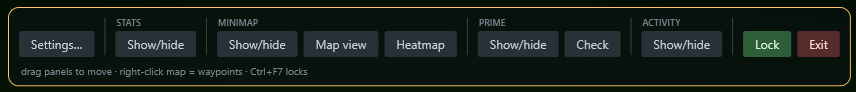
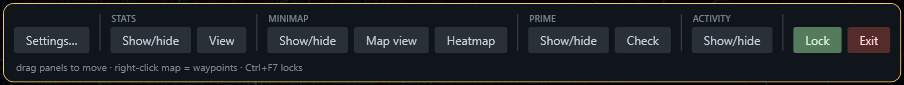
README: FAQ section, current for 1.27 and the waypoint packs
Adds a FAQ (can't see the overlay, closing it, the numbers, safety, installing and updating) linked from the Contents, moves Troubleshooting next to it, and brings the rest up to date: the intro, the fade now covering the Activity feed, the Prime tracker's default spot, the fair-play note, a stray sentence in the fade bullet. The control panel shot now shows the View button and a Combat view shot is added.

diff --git a/README.md b/README.md
@@ -1,8 +1,8 @@
 # Pandora Overlay
 
-A tiny always-on-top overlay for The Isle: Evrima showing your dino's health, stamina, hunger, thirst, growth, and fracture status while playing on Isla Pandora — plus a minimap with your live position and heading.
+A small always-on-top overlay for The Isle: Evrima on the Isla Pandora server. While you play it shows your dino's health, stamina, hunger, thirst, growth and fractures, a minimap with your live position, your waypoints and your friends, your Prime status, a feed of what just happened, and the server rules.
 
-It is **fully external**: the only thing it ever does is replay the same authenticated HTTPS request the islapandora.eu live-map page makes in your browser (`POST /api/map/mylocation`). It never reads game memory, never touches game files, and never interacts with the game process in any way.
+It is **fully external**: all it knows about the game comes from the same logged-in HTTPS requests the islapandora.eu website makes in your browser when you look at its live map. It never reads game memory, never touches game files, and never interacts with the game process in any way.
 
 [![Build](https://github.com/DavidKatona/PandoraOverlay/actions/workflows/release.yml/badge.svg)](https://github.com/DavidKatona/PandoraOverlay/actions)
 [![Latest release](https://img.shields.io/github/v/release/DavidKatona/PandoraOverlay)](https://github.com/DavidKatona/PandoraOverlay/releases/latest)
@@ -19,7 +19,8 @@ It is **fully external**: the only thing it ever does is replay the same authent
   - [Tray icon & settings](#tray-icon--settings)
   - Widgets: [Stats panel](#stats-panel) · [Minimap](#minimap) · [Prime tracker](#prime-tracker) · [Activity feed](#activity-feed)
   - Features: [Waypoints](#waypoints) · [Friends](#friends) · [Server rules](#server-rules)
-- **Reference:** [Configuration (config.json)](#configuration-configjson) · [Troubleshooting](#troubleshooting) · [Fair-play notes](#fair-play-notes) · [Roadmap](#roadmap) · [License](#license)
+- **Help:** [FAQ](#faq) — can't see the overlay, how to close it, updating, and more · [Troubleshooting](#troubleshooting)
+- **Reference:** [Configuration (config.json)](#configuration-configjson) · [Fair-play notes](#fair-play-notes) · [Roadmap](#roadmap) · [License](#license)
 
 ## Get it
 
@@ -30,6 +31,7 @@ Windows will likely warn about an **unknown publisher** the first time you run a
 ## Requirements
 
 - Windows 10/11, x64
+- The [.NET 8 Desktop Runtime](https://dotnet.microsoft.com/download/dotnet/8.0) to run a release
 - .NET 8 SDK (`winget install Microsoft.DotNet.SDK.8`) — only needed when building from source
 - An Isla Pandora account, logged in via Discord on islapandora.eu
 - The Isle running in **borderless windowed** mode (overlays cannot draw over exclusive fullscreen)
@@ -94,11 +96,14 @@ The pasted cookie is encrypted with **Windows DPAPI** (scoped to your Windows us
 - The health, hunger and thirst bars **pulse** when they drop below 25% (stamina doesn't — it drains by design every sprint). The three **fracture badges** (HEAD, BODY, LEGS) are always on the panel, dim until that part is actually fractured.
 - Every widget is one of **two sizes**: the minimap and the Prime tracker share one, the stats panel and the Activity feed the other, all the same width, and nothing on them can change their size while you play. That is what keeps docked layouts docked.
 - After about five minutes of play, the growth readout gains an **estimated time to full growth** ("Growth 41.6% · ~3h 10m"), measured from your current growth speed — it's in-game time, and it adapts to server growth events and buffs. If growth stalls while you're spawned, the readout turns amber and shows "paused".
-- The hunger and thirst bars show an **estimated time left** ("~40m") at the tip of the bar's fill once a stat has under about an hour to go, measured from how fast it is draining right now; it's back right after you eat or drink. It needs about three minutes of play first.
+- The hunger and thirst bars show an **estimated time left** ("~40m") at the tip of the bar's fill once a stat has under about an hour to go, measured from how fast it is draining right now; it's back right after you eat or drink. It needs about three minutes of play first. Don't want it? Untick "Show time left on the hunger, thirst and stamina bars" in Settings → Stats panel.
 - The stamina bar has a **timer** of its own, and it reads both ways: while stamina is draining (a sprint, a swim) it shows how long until it's empty ("~25s"), and while it's recovering it shows how long until it's full ("full ~40s"). It appears about six seconds into a steady run of either and disappears the moment stamina holds still, so it's never a stale number. The same Settings checkbox as the hunger and thirst labels turns it off.
 - **Two views, Survival and Combat:** press **Ctrl+F9** (or **View** in the control panel's Stats group) to flip between them. Survival is everything above. Combat keeps health, stamina and the fracture badges and swaps hunger and thirst for two fight readouts: **Damage**, the health you have lost in this fight as a red bar that grows with every hit (bleeding counts, healing doesn't take it back, and it clears 30 seconds after the last hit), and **Speed**, your current speed in km/h. The top-right corner, where Survival shows growth, reads **Wounded** once your health is under 50% (the game's own term) and "Healthy" otherwise. The rows keep their size and place, so nothing moves when you flip, and the panel's footer names the view you are in. Settings → Stats panel picks which view it starts in. Readings arrive once per poll (every 3 seconds by default), so treat them as a readout, not a hit counter.
+
+  ![The stats panel in its Combat view: "Healthy" in the top-right corner, health 86%, stamina 100%, a short red Damage bar at 10%, Speed 0 km/h, the three dim fracture badges, and "combat view" at the right end of the status line](docs/stats-combat.png)
+
 - The growth readout **blinks for a few seconds when you reach a stage** — 25% juvenile, 50% subadult, 75% adult, 100% elder. Two optional **chimes** (Settings → Stats panel, both off by default) play the Windows "Exclamation" sound: one when hunger or thirst drops under 20% (repeated every five minutes while it stays there, re-armed once you've eaten or drunk), one at those growth stages. Made for AFK growing, where a slow stat is easy to miss while alt-tabbed.
-- Optional **attention fade** (Settings → General → "Fade idle panels to …", off by default): while all is well the stats panel and the Prime tracker sit at a faded opacity you choose (20–80%), and come back to full when something is worth a look — a stat under 50%, a fracture, damage taken, hunger or thirst with under 15 minutes left (in the Combat view instead: health or stamina under 75%, a fracture, or a fight still showing on the Damage row; flipping the view always lights the panel for a few seconds); for the Prime tracker a check in flight, a fresh result, the cooldown ending, or the "as a different dino" cue appearing (each lit for about half a minute). The minimap never fades, and edit mode always shows everything in full. The fade works on top of the background opacity slider, so it can only make a panel fainter than your usual look. Don't want it? Untick "Show time left on the hunger and thirst bars" in Settings.
+- Optional **attention fade** (Settings → General → "Fade idle panels to …", off by default): while all is well the stats panel, the Prime tracker and the Activity feed sit at a faded opacity you choose (20–80%), and come back to full when something is worth a look. For the stats panel that is a stat under 50%, a fracture, damage taken, hunger or thirst with under 15 minutes left (in the Combat view instead: health or stamina under 75%, a fracture, or a fight still showing on the Damage row; flipping the view always lights the panel for a few seconds); for the Prime tracker a check in flight, a fresh result, the cooldown ending, or the "as a different dino" cue appearing (each lit for about half a minute); for the Activity feed a new line (also about half a minute). The minimap never fades, and edit mode always shows everything in full. The fade works on top of the background opacity slider, so it can only make a panel fainter than your usual look.
 - Status-line states you'll see:
   - `Not in-game` — you're logged in but not spawned on the server (or the server is restarting). While you aren't spawned the overlay checks less often — every 15 seconds, and once a minute after ten minutes (the status line says so) — so a fresh spawn can take that long to show up. Entering edit mode, un-hiding the overlay or pressing Check Prime makes it look right away.
   - `Disconnected · retrying` — network/auth problem; it keeps retrying (less often once the failures pile up). If it never recovers, open Settings and paste a fresh cookie.
@@ -132,7 +137,7 @@ The pasted cookie is encrypted with **Windows DPAPI** (scoped to your Windows us
 
 ![The Prime tracker: "Prime Elder" status, the ten conditions as a ✓/✗ list, and the footer showing "Checked 16:01 · Deinosuchus" and "check available"](docs/prime-tracker.png)
 
-- The **Prime tracker** is a third widget (docked to the left screen edge by default, draggable like the others) showing your Prime status and the server's ten Prime conditions as a ✓/✗ list — the same result as the website's "Prime Check" box. 5 of 10 are needed for Prime.
+- The **Prime tracker** is a third widget (top-left by default, draggable like the others) showing your Prime status and the server's ten Prime conditions as a ✓/✗ list — the same result as the website's "Prime Check" box. 5 of 10 are needed for Prime.
 - It never checks by itself. Press **Ctrl+F8** any time (rebindable in Settings), or **Check** in the control panel's Prime group. The server enforces a cooldown between checks — 5 minutes normally, shorter with some supporter ranks — so after each check the overlay asks the server for *your* cooldown, counts it down in the widget, and remembers it across restarts. A click during the cooldown sends nothing. You need to be spawned in for a check to work.
 - The last result stays on screen with the time it was taken and the dino it was taken as, and it survives restarts. If you have switched dino since, that line turns amber as a reminder that the list is about your previous one. After a check, conditions that changed since the previous result stand out — a newly met one in bright text, a lost one in amber — until the next check. When the cooldown runs out, the footer blinks briefly.
 - Hide or show the widget with **Show/hide** in the control panel's Prime group. Its size has its own Scale slider in Settings → Prime tracker (75–150%).
@@ -160,6 +165,78 @@ The pasted cookie is encrypted with **Windows DPAPI** (scoped to your Windows us
 
 - **Settings → Server rules** (or the tray's **Server rules…**, which opens straight there) shows Isla Pandora's pack limits per species, with your current dino's limit highlighted, and the numbered server rules — so "can we run five Ceratos?" is answered without alt-tabbing.
 - It's a dated copy of the website's rules page, kept with the app; the page says when it was copied and links to the site and the Discord. As the website itself notes, the rules on the Discord have priority. The site has no rules API yet, so the copy is updated with the app; if one appears, the overlay will fetch it instead.
+
+## FAQ
+
+### Seeing and closing it
+
+**I can't see the overlay. Why?** Go down this list:
+
+1. **Is it running?** Look for its icon in the notification area next to the clock (it may be tucked under the **^** arrow). No icon means it isn't running: start `PandoraOverlay.exe`.
+2. **Is it hidden?** **Ctrl+F4** hides and shows the whole overlay, so press it once. The tray icon's **Hide/show overlay** does the same.
+3. **Are you spawned in?** With "Hide the overlay while not in-game" ticked (Settings → General), it stays hidden until you spawn; the tray icon's tooltip then reads "hidden until you spawn".
+4. **Is the game in exclusive fullscreen?** Nothing can draw over that. Switch the game to **borderless windowed**.
+5. **Is that one widget switched off?** Press **Ctrl+F7** and use **Show/hide** in that widget's group on the control panel.
+6. **Is it just very faint?** The attention fade (Settings → General → "Fade idle panels to") dims idle panels down to as little as 20%. Raise the slider or untick it.
+7. **Did it end up somewhere odd?** Press Ctrl+F7 twice: locking edit mode pulls every panel back onto the screen. **Reset positions** in Settings → General restores the default layout.
+
+**How do I close the overlay?** Right-click its tray icon and pick **Exit**, or press **Ctrl+F7** and click **Exit** on the control panel. It has no taskbar button on purpose, so there is no window to close.
+
+**Why can't I click on it?** That is deliberate: the panels let every click through to the game, so they can never eat one. Press **Ctrl+F7** for edit mode, where you can drag them and use the control panel, then press it again to lock.
+
+**How do I open Settings?** Right-click the tray icon → **Settings…**, or press Ctrl+F7 and click **Settings…** on the control panel.
+
+**How do I move or resize the panels?** Move: press Ctrl+F7 and drag. Resize: every widget has its own Scale slider on its Settings page (75–150%). See [Basics](#basics).
+
+### The numbers
+
+**It says "Not in-game", but I'm playing.** The overlay shows what the website's [live map](https://islapandora.eu/live-map) shows, so check that the page shows your dino: you have to be spawned in on Isla Pandora, not in the spawn menu. If you only just spawned, give it a moment. While you aren't spawned the overlay checks only every 15 seconds, and once a minute after ten minutes; pressing Ctrl+F7 makes it check right away.
+
+**It says "Disconnected · retrying".** It retries by itself, so a short network or site hiccup clears up alone. If it stays that way for more than a couple of minutes, your login has most likely expired. Copy a fresh cookie the same way as in [First-run setup](#first-run-setup) and paste it under Settings → Account → **Replace cookie…**.
+
+**Why are the numbers a few seconds behind the game?** The overlay gets fresh numbers every 3 seconds and deliberately asks no more often than that, out of courtesy to the site. So a hit or a sprint shows up a moment later.
+
+### Is it safe, is it allowed
+
+**Is this allowed?** Yes. It never touches the game: it is a separate program that reads what the website already shows you when you're logged in. The Isla Pandora team has okayed it, and each kind of data it reads was cleared with the site's developer first. See [Fair-play notes](#fair-play-notes).
+
+**Can it see other players?** No. It shows your own dino, and the friends from your islapandora.eu friends list who share their location, exactly as the website's live map does.
+
+**Is my cookie safe?** It stays on your PC, encrypted with Windows' own protection for your user account, and it is only ever sent to islapandora.eu, where your browser sends it too. It is your login, though: never post it, or a screenshot of it, anywhere.
+
+**Will it lower my FPS?** It shouldn't. It is a small separate program that draws a few panels and makes one small web request every few seconds; it doesn't hook into the game or its rendering.
+
+**Does it work on other servers?** No. Everything it shows comes from islapandora.eu, so it only works while you play on Isla Pandora.
+
+**Does it work on Linux, Mac or the Steam Deck?** No, it is a Windows program (Windows 10 or 11).
+
+### Installing and updating
+
+**Do I have to paste the cookie again after a restart or an update?** No. It is saved and renews itself while you use the overlay. Normally you only need a new one if you log out on the website or stay away for about a month.
+
+**How do I update?** The tray icon tells you when a new version is out. Exit the overlay, download the new zip, unblock it (see [Troubleshooting](#troubleshooting)) and unpack it over the old folder. Your settings, cookie, waypoints and friend nicknames live in files of their own next to the app and are kept.
+
+**Windows warns about an unknown publisher, or blocks it.** Expected for every new version: see the last entry under [Troubleshooting](#troubleshooting).
+
+**How do I uninstall it?** Exit it and delete its folder. If "Start with Windows" is ticked (Settings → General), untick it first, or Windows keeps a startup entry pointing at the deleted app.
+
+### More
+
+**How do I get place names on the minimap?** Import the ready-made waypoint packs from the [`packs`](packs/) folder: areas, water and landmarks. Its [readme](packs/README.md) shows the steps.
+
+**How do I add or remove friends?** On the website. The overlay only reads your friends list; friends who are in game and share their location then appear on the minimap. See [Friends](#friends).
+
+**A hotkey does nothing, or clashes with another program.** Every hotkey can be changed under Settings → Controls. The box tells you while you press whether a combination is free.
+
+**Where do I ask for help, report a bug or suggest something?** In the pandora-overlay channel on the Isla Pandora Discord, or by opening an [issue](../../issues) here.
+
+## Troubleshooting
+
+- **`Disconnected (HttpRequestException)` or 401/403 forever** → your session or `cf_clearance` expired. Redo the cookie copy from DevTools.
+- **Overlay not visible over the game** → make sure the game is borderless windowed, not fullscreen. The [FAQ](#faq) has the full checklist.
+- **The hotkey does nothing** → another app grabbed it; pick a different combination in Settings (tray icon → Settings…) — the capture box checks availability as you press.
+- **Bars frozen** → check the timestamp in the status line; it updates on every successful poll.
+- **Windows blocks the app / "unknown publisher"** → expected for every new version, not just the first install: the releases aren't code-signed, and Windows trusts exact files, not app names — each update is new files with no reputation yet. Either click **More info → Run anyway** on the SmartScreen warning, or cleaner: right-click the downloaded **zip** → Properties → tick **Unblock** → OK *before* extracting, which clears every file inside. If the dialog names `PandoraOverlay.dll` and offers no "Run anyway" button, that's Windows 11's **Smart App Control**, which blocks all unsigned apps machine-wide with no per-app exception — it can only be switched off entirely in Windows Security (App & browser control), and that switch is one-way.
 
 ## Configuration (`config.json`)
 
@@ -202,23 +279,15 @@ The pasted cookie is encrypted with **Windows DPAPI** (scoped to your Windows us
 | `BackgroundOpacity` | Panel-glass opacity, 0.3–1 (default 0.8) — text stays crisp. Slider in Settings. |
 | `StatTimeLeftEnabled` | Show the estimated time left on the hunger and thirst bars, and the stamina timer (time until empty while draining, time until full while recovering). Checkbox in Settings. Default `true`. |
 | `LowStatChimeEnabled` / `GrowthChimeEnabled` | Play the Windows "Exclamation" sound when hunger or thirst drops under 20%, and at the 25/50/75/100% growth stages. Checkboxes in Settings → Stats panel. Both default `false`. |
-| `FadeEnabled` / `FadeIdleOpacity` | Attention fade for the stats panel and Prime tracker, and the opacity they rest at while nothing needs attention (0.2–0.8, default 0.4). Checkbox + slider in Settings. Default off. |
+| `FadeEnabled` / `FadeIdleOpacity` | Attention fade for the stats panel, the Prime tracker and the Activity feed, and the opacity they rest at while nothing needs attention (0.2–0.8, default 0.4). Checkbox + slider in Settings. Default off. |
 
 Most of these are editable from the Settings window; `UserAgent`, `PollIntervalSeconds`, and `MinimapYawOffsetDegrees` are file-only on purpose. "Start with Windows" lives in the registry (HKCU Run entry), not in this file. The waypoint library itself lives in `waypoints.json` next to the app (a `Waypoints` array of `{Id, Name, X, Y, Colour, Visible, Pack}`): user content, kept apart from settings and the cookie, and the file that is exported and imported. Your side of the friends list lives in `friends.json` the same way (a `Friends` array of `{SteamId, Name, Nickname, Colour, ShowOnMap, Notify, LastDino, LastGrowth, LastSeenUtc}`); the list itself comes from the website on every fetch, this file only holds your names, colours and choices for each friend plus when they were last seen.
-
-## Troubleshooting
-
-- **`Disconnected (HttpRequestException)` or 401/403 forever** → your session or `cf_clearance` expired. Redo the cookie copy from DevTools.
-- **Overlay not visible over the game** → make sure the game is borderless windowed, not fullscreen.
-- **The hotkey does nothing** → another app grabbed it; pick a different combination in Settings (tray icon → Settings…) — the capture box checks availability as you press.
-- **Bars frozen** → check the timestamp in the status line; it updates on every successful poll.
-- **Windows blocks the app / "unknown publisher"** → expected for every new version, not just the first install: the releases aren't code-signed, and Windows trusts exact files, not app names — each update is new files with no reputation yet. Either click **More info → Run anyway** on the SmartScreen warning, or cleaner: right-click the downloaded **zip** → Properties → tick **Unblock** → OK *before* extracting, which clears every file inside. If the dialog names `PandoraOverlay.dll` and offers no "Run anyway" button, that's Windows 11's **Smart App Control**, which blocks all unsigned apps machine-wide with no per-app exception — it can only be switched off entirely in Windows Security (App & browser control), and that switch is one-way.
 
 ## Fair-play notes
 
 - The overlay shows **your own** dino and, since the friends update, the friends the website already shows you on its live map — the same data Isla Pandora displays to you in a browser tab, nothing else. It cannot see other players, and a friend who hides their location on the site is never drawn. Adding, removing and blocking friends stays on the website; the overlay only reads the list.
 - It polls at the same rate as the website itself while you play, slows right down while you aren't spawned in, and respects their rate limit.
-- This consumes Isla Pandora's private, login-gated API. Be a good citizen: ask their admins whether they're okay with a personal overlay client, and stop using it if they say no.
+- It reads Isla Pandora's login-gated website data, and it does so with the server team's okay: each kind of data it uses was cleared with the site's developer first, and nothing is added without asking. If you build your own tool on that data, ask them too.
 
 ## Roadmap
 
